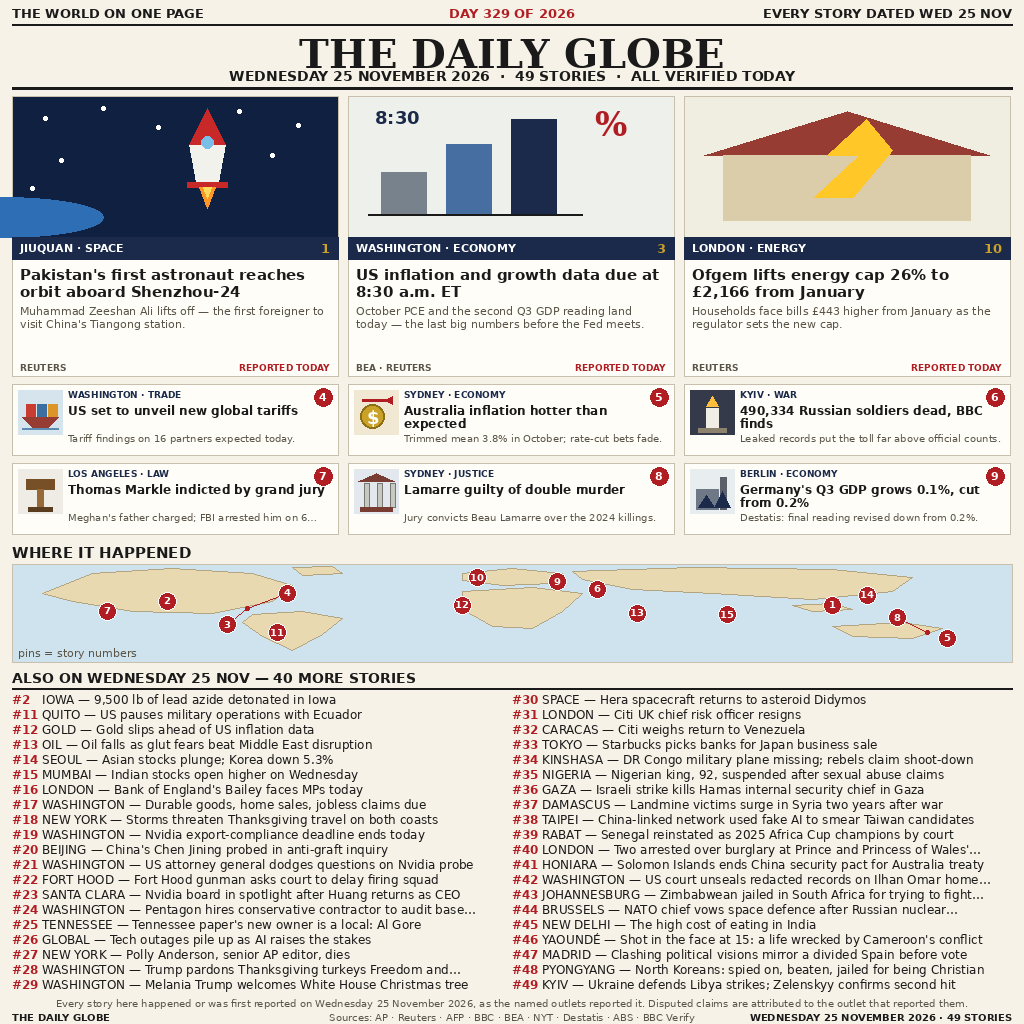
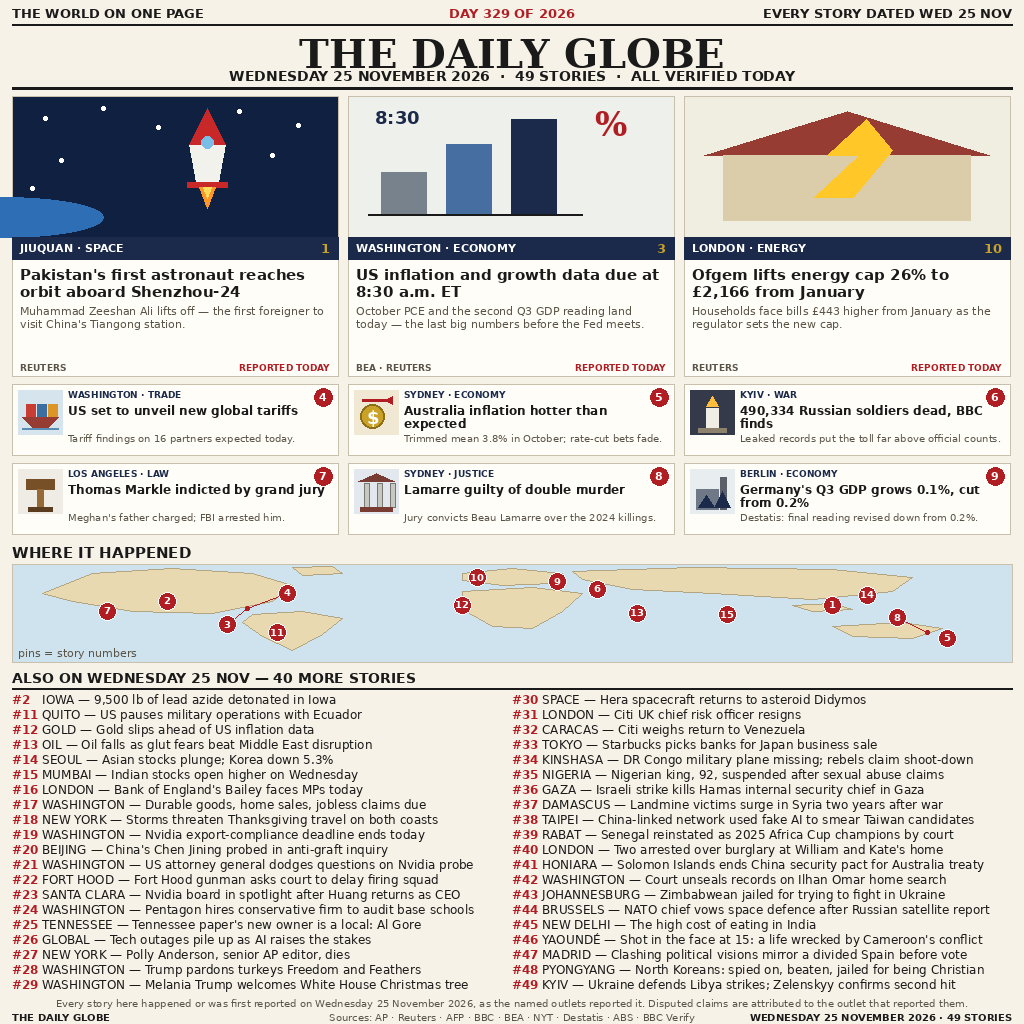
news-image-20261125 v2: fix truncated deck #7 and 6 ALSO items

Changed region(s): [[0.625, 0.8125, 0.9688, 0.9062], [0.2188, 0.9375, 0.4375, 0.9688], [0.3125, 0.875, 0.4688, 0.9062]]

diff --git a/render.py b/render.py
@@ -242,7 +242,7 @@ MEDIUM = [
          ill=ic_candle),
     dict(num=7, kicker="LOS ANGELES · LAW",
          head="Thomas Markle indicted by grand jury",
-         deck="Meghan's father charged; FBI arrested him on 6 Nov.",
+         deck="Meghan's father charged; FBI arrested him.",
          ill=ic_gavel),
     dict(num=8, kicker="SYDNEY · JUSTICE",
          head="Lamarre guilty of double murder",
@@ -270,11 +270,11 @@ ALSO_LEFT = [
     (21, "WASHINGTON", "US attorney general dodges questions on Nvidia probe"),
     (22, "FORT HOOD", "Fort Hood gunman asks court to delay firing squad"),
     (23, "SANTA CLARA", "Nvidia board in spotlight after Huang returns as CEO"),
-    (24, "WASHINGTON", "Pentagon hires conservative contractor to audit base schools"),
+    (24, "WASHINGTON", "Pentagon hires conservative firm to audit base schools"),
     (25, "TENNESSEE", "Tennessee paper's new owner is a local: Al Gore"),
     (26, "GLOBAL", "Tech outages pile up as AI raises the stakes"),
     (27, "NEW YORK", "Polly Anderson, senior AP editor, dies"),
-    (28, "WASHINGTON", "Trump pardons Thanksgiving turkeys Freedom and Feathers"),
+    (28, "WASHINGTON", "Trump pardons turkeys Freedom and Feathers"),
     (29, "WASHINGTON", "Melania Trump welcomes White House Christmas tree"),
 ]
 
@@ -289,11 +289,11 @@ ALSO_RIGHT = [
     (37, "DAMASCUS", "Landmine victims surge in Syria two years after war"),
     (38, "TAIPEI", "China-linked network used fake AI to smear Taiwan candidates"),
     (39, "RABAT", "Senegal reinstated as 2025 Africa Cup champions by court"),
-    (40, "LONDON", "Two arrested over burglary at Prince and Princess of Wales' home"),
+    (40, "LONDON", "Two arrested over burglary at William and Kate's home"),
     (41, "HONIARA", "Solomon Islands ends China security pact for Australia treaty"),
-    (42, "WASHINGTON", "US court unseals redacted records on Ilhan Omar home search"),
-    (43, "JOHANNESBURG", "Zimbabwean jailed in South Africa for trying to fight in Ukraine"),
-    (44, "BRUSSELS", "NATO chief vows space defence after Russian nuclear satellite report"),
+    (42, "WASHINGTON", "Court unseals records on Ilhan Omar home search"),
+    (43, "JOHANNESBURG", "Zimbabwean jailed for trying to fight in Ukraine"),
+    (44, "BRUSSELS", "NATO chief vows space defence after Russian satellite report"),
     (45, "NEW DELHI", "The high cost of eating in India"),
     (46, "YAOUNDÉ", "Shot in the face at 15: a life wrecked by Cameroon's conflict"),
     (47, "MADRID", "Clashing political visions mirror a divided Spain before vote"),
